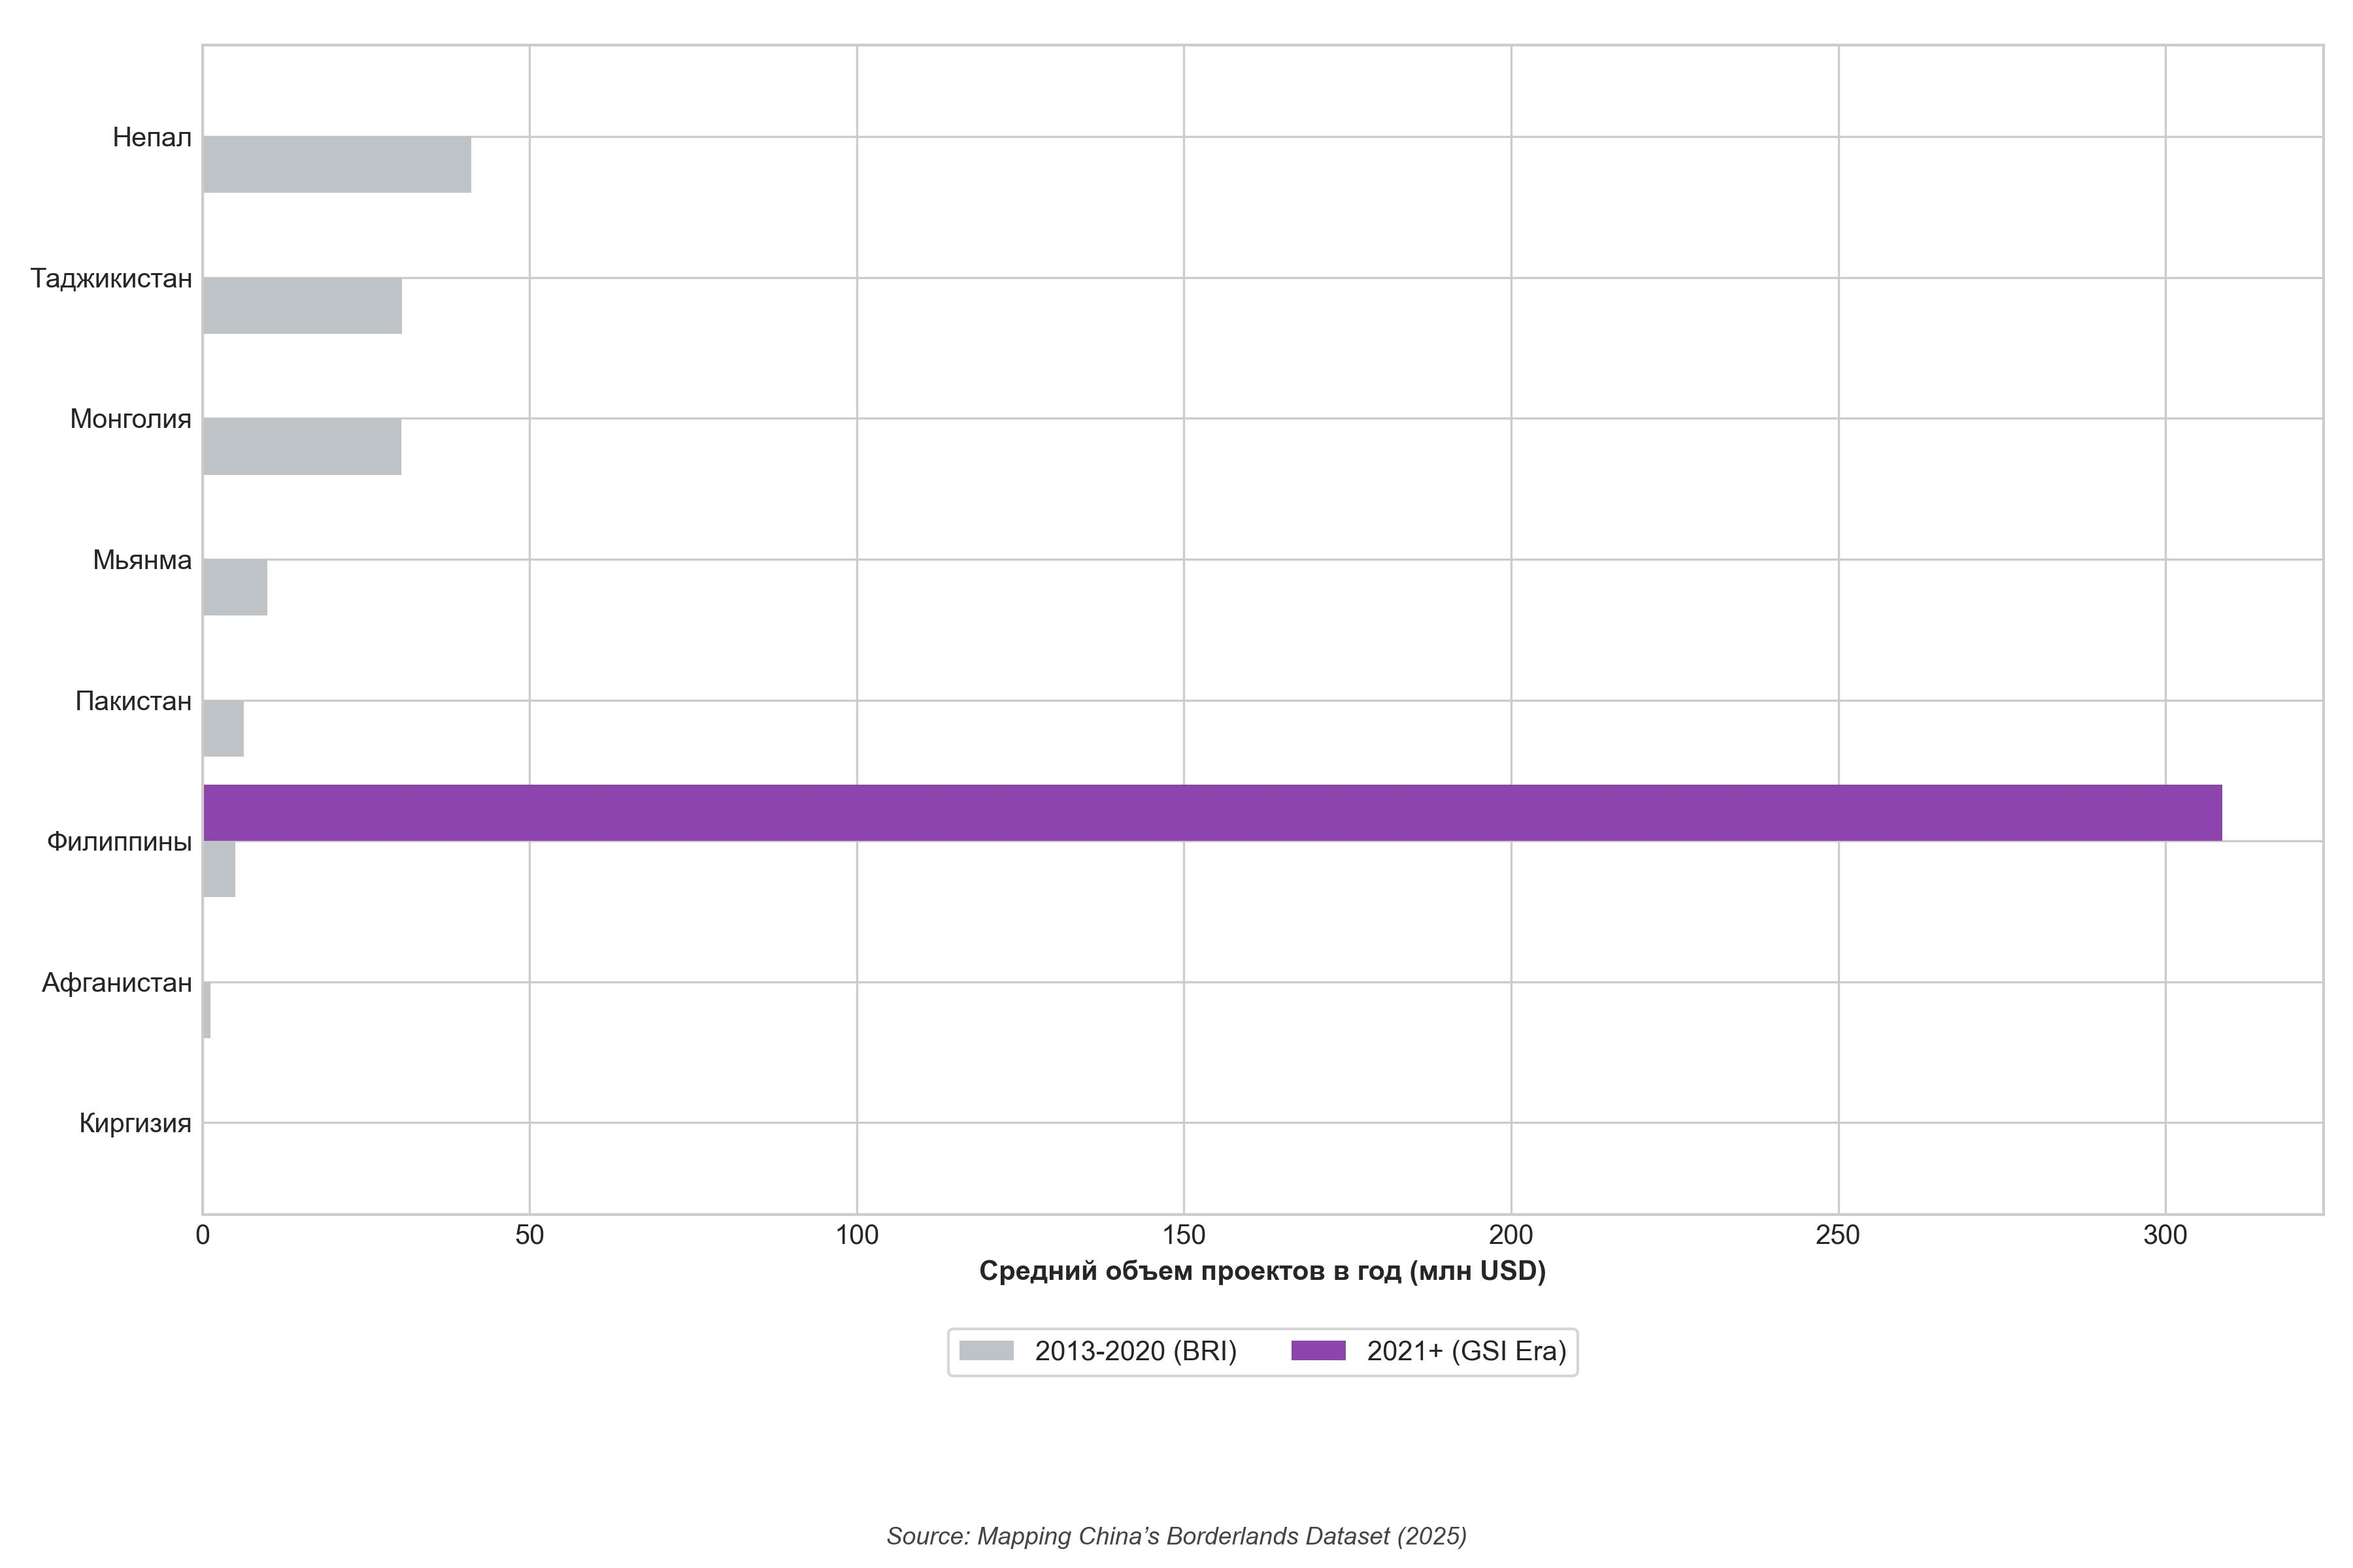
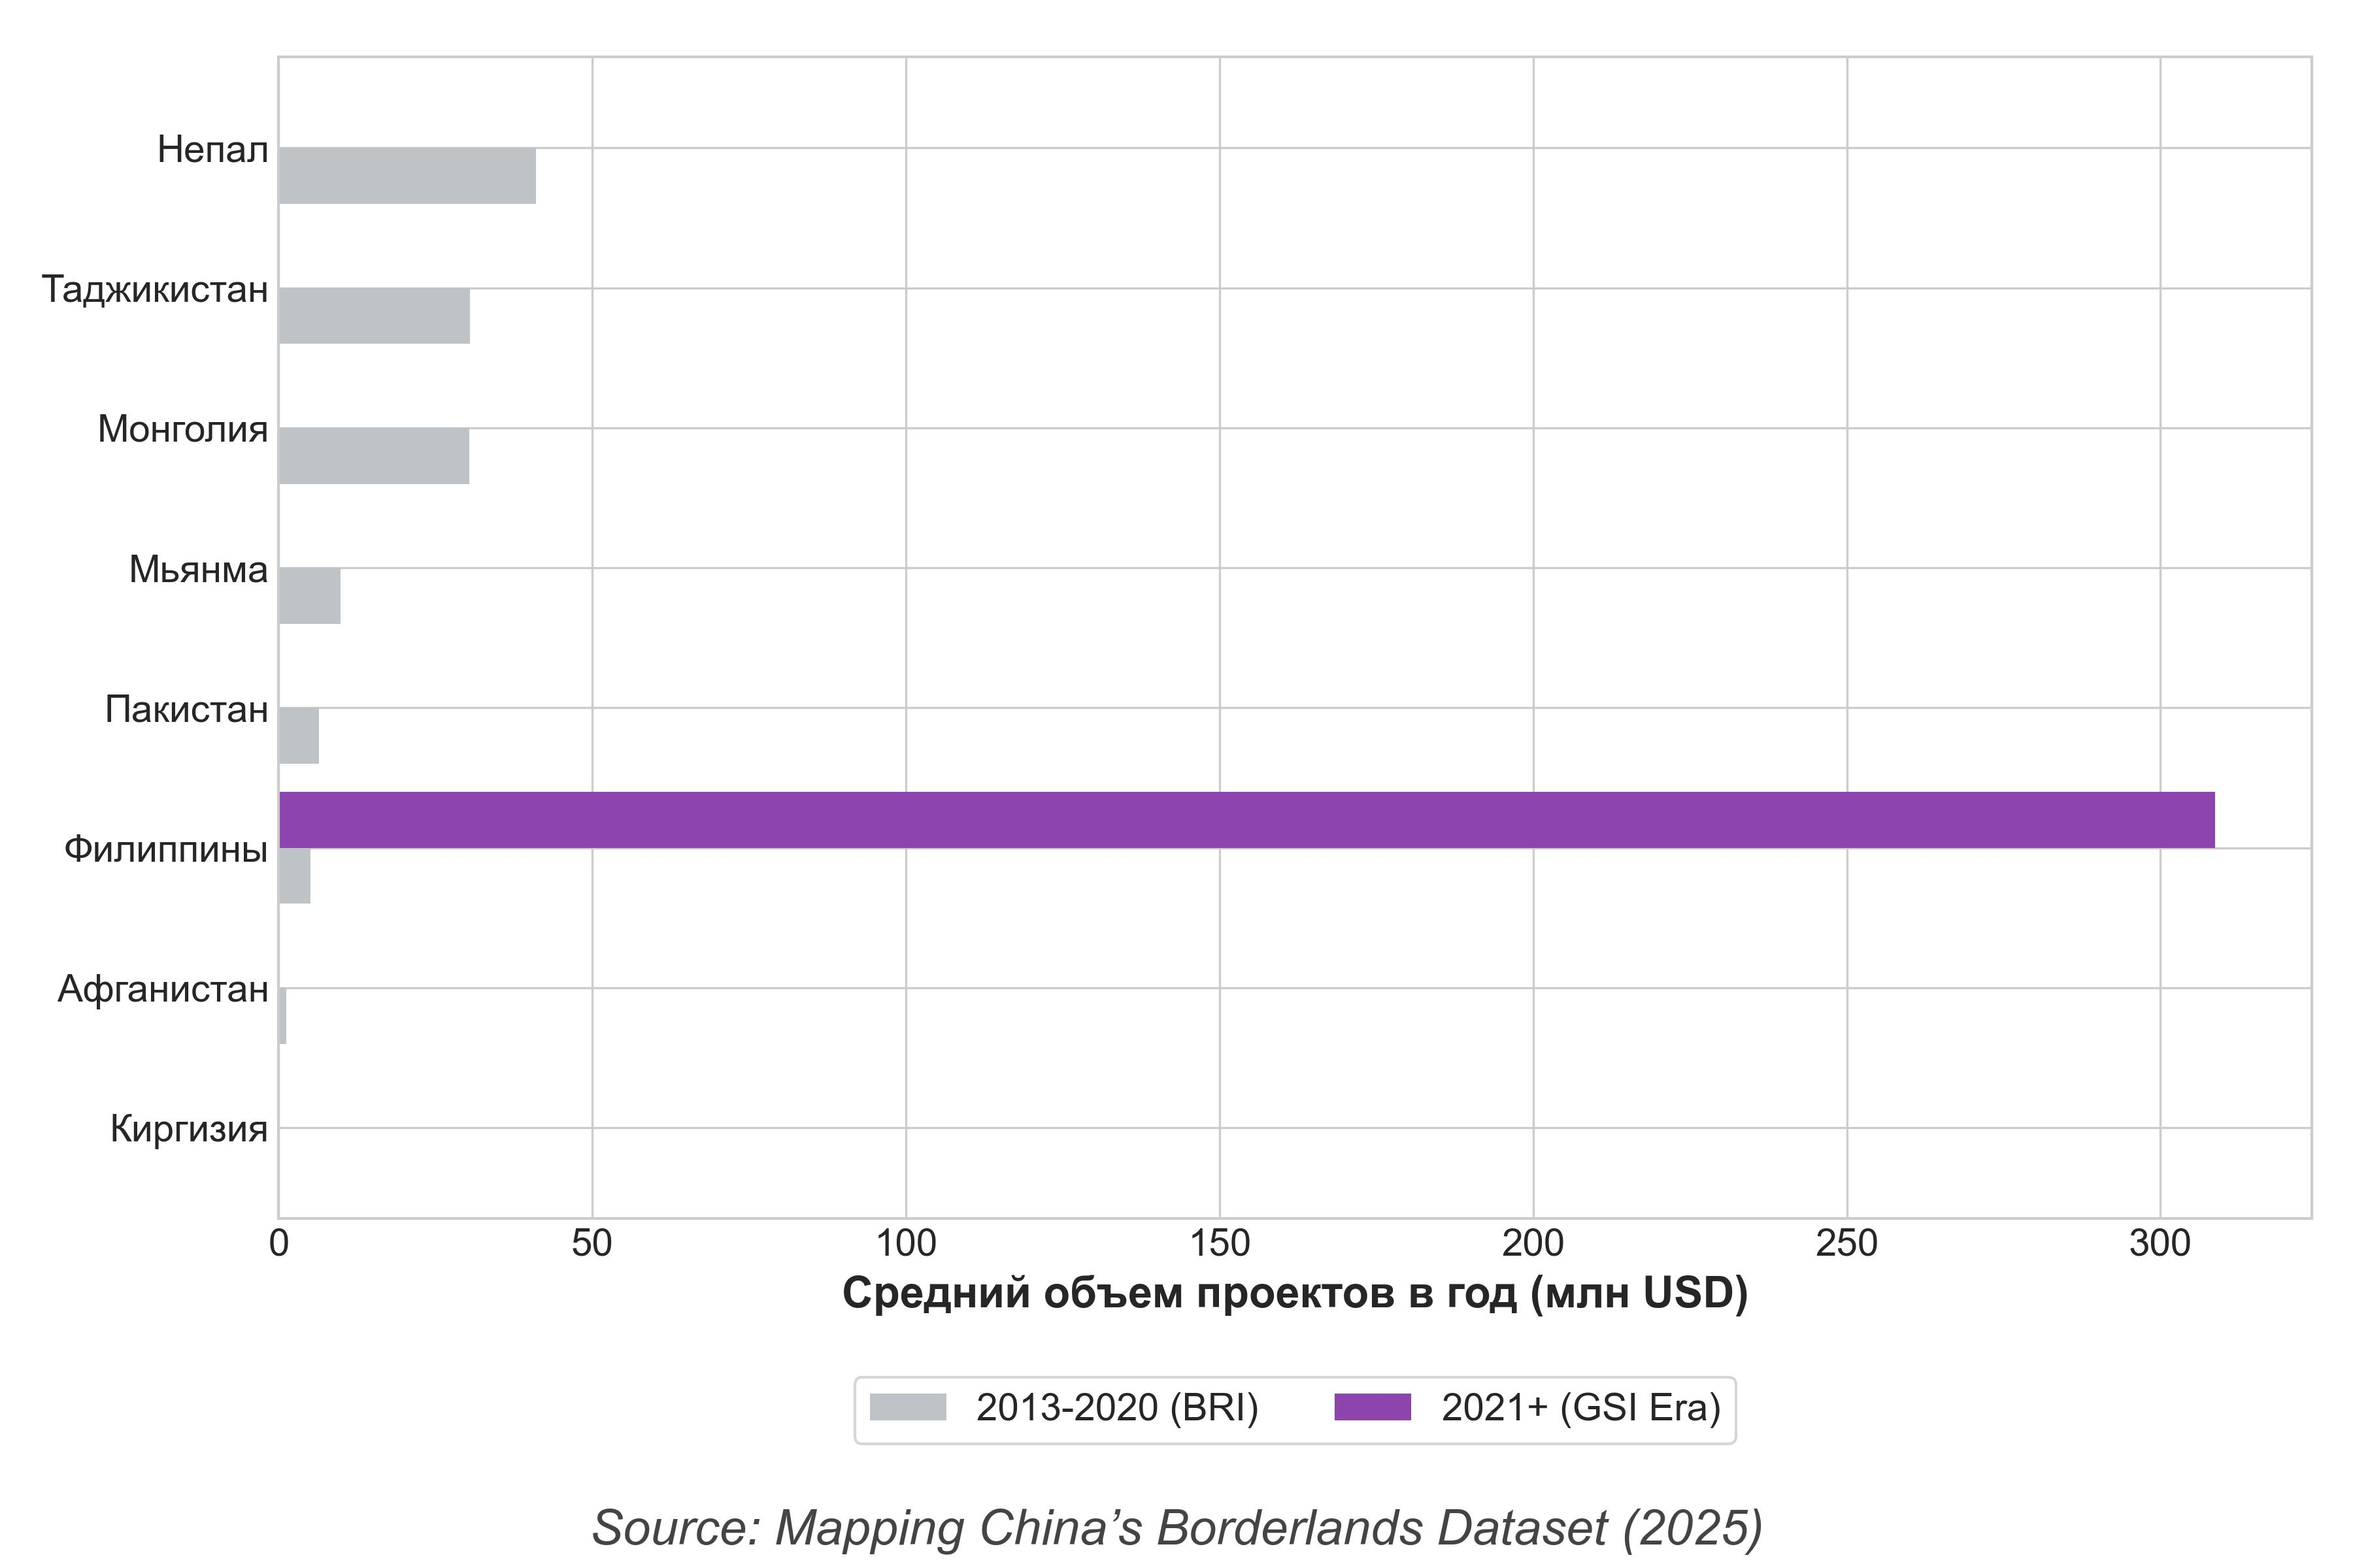
Add files via upload

diff --git a/img/Digital_Control.py b/img/Digital_Control.py
@@ -1,0 +1,33 @@
+import matplotlib.pyplot as plt
+import pandas as pd
+import numpy as np
+from china_config import load_data, add_source, COUNTRY_RU
+
+df, _, _, _ = load_data()
+col_surv = 'sec_02_surveillance_usd'
+
+if df is not None:
+    # Разделяем на периоды
+    df['period'] = df['year'].apply(lambda x: '2013-2020 (BRI)' if 2013 <= x <= 2020 else '2021+ (GSI Era)' if x >= 2021 else 'Other')
+    
+    # Считаем среднегодовые расходы, чтобы сравнение было честным (периоды разной длины)
+    stats = df[df['period'] != 'Other'].groupby(['period', 'recipient'])[col_surv].mean().reset_index()
+    
+    # Берем ТОП-8 стран по суммарной активности
+    top_recipients = stats.groupby('recipient')[col_surv].sum().sort_values(ascending=False).head(8).index
+    plot_data = stats[stats['recipient'].isin(top_recipients)].copy()
+    plot_data['recipient_ru'] = plot_data['recipient'].map(COUNTRY_RU).fillna(plot_data['recipient'])
+    
+    pivot_df = plot_data.pivot(index='recipient_ru', columns='period', values=col_surv).fillna(0) / 1e6
+    pivot_df = pivot_df.sort_values('2013-2020 (BRI)', ascending=True)
+
+    ax = pivot_df.plot(kind='barh', figsize=(12, 8), color=['#BDC3C7', '#8E44AD'], width=0.8)
+    
+    # plt.title('Технологии слежения (Surveillance): Сравнение среднегодовых затрат', fontsize=16, fontweight='bold')
+    plt.xlabel('Средний объем проектов в год (млн USD)', fontweight='bold')
+    plt.ylabel('')
+    
+    plt.legend(loc='upper center', bbox_to_anchor=(0.5, -0.12), ncol=2, frameon=True)
+    add_source(plt.gcf())
+    plt.tight_layout(rect=[0, 0.05, 1, 0.99])
+    plt.savefig('Digital_Surveillance_Comp.jpg', dpi=300)
